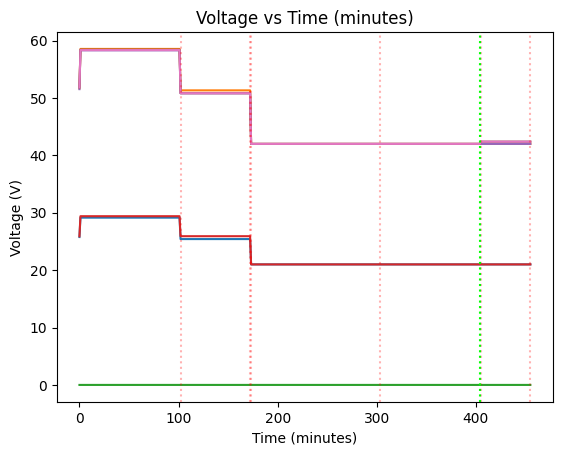
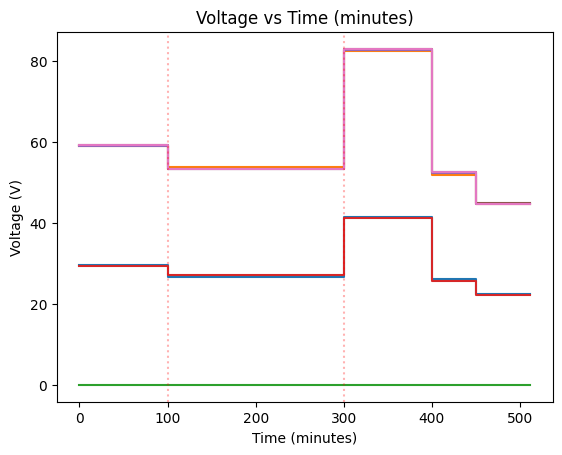
Fix battery charge polarity

diff --git a/PySpice/simulation_over_time.py b/PySpice/simulation_over_time.py
@@ -25,14 +25,10 @@ def start_voyage(circuit_config_loc: str, voyage_config_loc: str, save_path: str
     battery_max_voltage = battery_setup_info['max_voltage']
     
     current_capacity_Amin = current_soc * battery_capacity_Amin
+    print('Starting SOC:', current_soc, 'Capacity (Amin):', current_capacity_Amin)
     time_range_min = [0]
     results = []
     battery_capacity_list = [current_capacity_Amin]
-    
-    #initial run at t=0
-    circuit, component_object, errors = build_circuit_from_json(circuit_config_loc=circuit_config_loc, modifications={})
-    analysis, result = begin_simulation(circuit, component_object, errors, ngspice_available)
-    results.append(result)
     
     segment_length = len(segments)
     for segment_idx in range(segment_length):
@@ -47,6 +43,12 @@ def start_voyage(circuit_config_loc: str, voyage_config_loc: str, save_path: str
         modifications['panel_power_setting'] = panel_power_setting
         modifications['throttle_setting'] = throttle_setting
 
+        """ if results == []:
+            circuit, component_object, errors = build_circuit_from_json(circuit_config_loc=circuit_config_loc, modifications=modifications)
+            analysis, result = begin_simulation(circuit, component_object, errors, ngspice_available)
+            results.append(result)
+            continue """
+                
         if current_capacity_Amin <= 0:
             modifications['max_discharge_current'] = 0
         
@@ -63,8 +65,8 @@ def start_voyage(circuit_config_loc: str, voyage_config_loc: str, save_path: str
         
         # add another step to setting  so load & panel/mppt current jump to setting
         # Keep battery calculation same so its slowly increases/decreases
-        if current_capacity_Amin > 0 and (current_capacity_Amin - discharge_current_A * duration_minutes <= 0): 
-            minues_to_empty = current_capacity_Amin / discharge_current_A
+        if current_capacity_Amin > 0 and (current_capacity_Amin + (discharge_current_A * duration_minutes) <= 0): 
+            minues_to_empty = abs(current_capacity_Amin / discharge_current_A)
             
             copy = deepcopy(segments[segment_idx])
             copy["duration_minutes"] = duration_minutes - minues_to_empty
@@ -74,28 +76,36 @@ def start_voyage(circuit_config_loc: str, voyage_config_loc: str, save_path: str
             current_capacity_Amin = 0
             current_soc = 0
             
-            results.append(result)
-            results.append(result)
+            results.append(result)            
+            time_range_min.append(time_range_min[-1])
             
-            time_range_min.append(time_range_min[-1] + 1)
+            results.append(result)
             time_range_min.append(time_range_min[-1] + minues_to_empty)
-            
-            battery_capacity_list.append(battery_capacity_list[-1])
         else:
-            current_capacity_Amin -= discharge_current_A * duration_minutes
+            print('before', current_capacity_Amin, time_range_min[-1])
+            print(discharge_current_A, duration_minutes)
+            current_capacity_Amin += discharge_current_A * duration_minutes
+            print('after', current_capacity_Amin, time_range_min[-1] + duration_minutes)
             current_soc = (current_capacity_Amin / battery_capacity_Amin)
             
             results.append(result)
+            time_range_min.append(time_range_min[-1])
+            
             results.append(result)
-            
-            time_range_min.append(time_range_min[-1] + 1)
             time_range_min.append(time_range_min[-1] + duration_minutes)
-            
-            battery_capacity_list.append(battery_capacity_list[-1])
 
-            
-        battery_capacity_list.append(min(battery_capacity_Amin, current_capacity_Amin))
+        print(current_capacity_Amin, battery_capacity_Amin)
+        print(battery_capacity_list)
+        # Re-add the same time since capacity drains, not jump to value
+        battery_capacity_list.append(battery_capacity_list[-1])
+        current_capacity_Amin = min(battery_capacity_Amin, current_capacity_Amin)
+        battery_capacity_list.append(current_capacity_Amin)
+        print('wtd', battery_capacity_list)
     
+    print(len(time_range_min), len(results), len(battery_capacity_list))
+    print(time_range_min)
+    print(battery_capacity_list)
+    results = [results[0]] + results
     generate_graph(results=results, x_axis=time_range_min, x_label="Time (minutes)",
                    voltage_display_choice=['battery_result', 'load_result', "mppt_result"],
                    current_display_choice=['battery_result', 'load_result', "mppt_result"],

diff --git a/PySpice/sweep_graph_generation.py b/PySpice/sweep_graph_generation.py
@@ -68,6 +68,7 @@ def generate_graph(results: list, x_axis: list, x_label: str = "",
             voltages = extract_traces(results, category, 'voltage')
             
             for label, values in voltages.items():
+
                 ax.plot(x_axis, values, marker=MARKER_STYLE, markersize=MARKER_SIZE, 
                        label=f"{category} - {label}", 
                        color=colors[color_idx % len(colors)])

diff --git a/PySpice/__main__.py b/PySpice/__main__.py
@@ -51,7 +51,3 @@ if __name__ == "__main__":
     else: 
         print("Invalid SIMULATION_TYPE selected.")
         exit(1)
-        
-    
-        
-        
